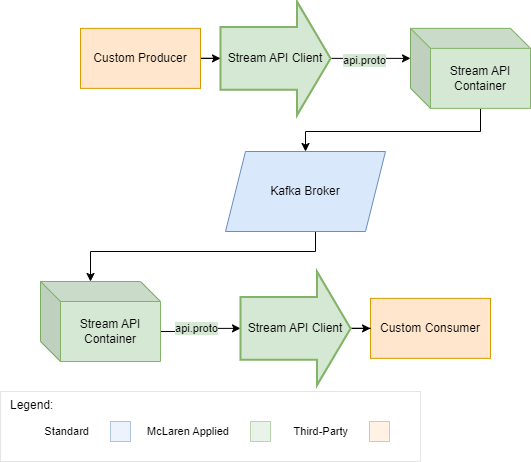
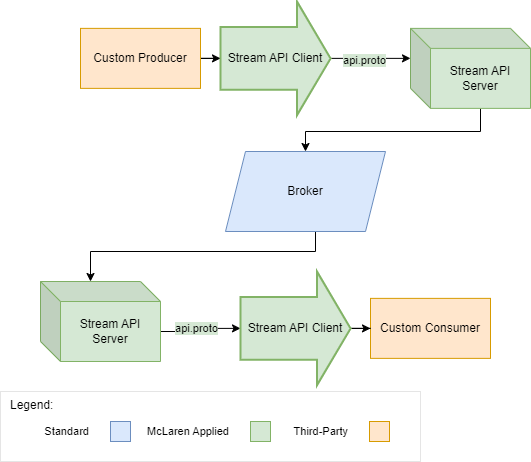
Rename Stream Api Container to Stream Api Server

diff --git a/docs/open_streaming_architecture/stream_api/overview.md b/docs/open_streaming_architecture/stream_api/overview.md
@@ -15,7 +15,7 @@ Four components are currently available for evaluation:
 
 ## Batching Responses
 
-When a high amount of messages is processed at the same time. The overhead can be significant and the bandwidth can be 
+When a high amount of messages is processed at the same time, the overhead can be significant and the bandwidth can be 
 more efficiently utilised by batching the responses. 
 
 The configuration on the server side corresponds to the behaviour when consuming off the broker, whereas 
@@ -24,14 +24,14 @@ the configuration on the client side corresponds to the behaviour when producing
 ## Sample Implementation
 
 ### Simple stream produce consumer
-In this scenario, a custom data producer can publish data onto the Kafka broker via the
-Stream API client and the Stream API Container. 
+In this scenario, a custom data producer can publish data onto the broker via the
+Stream API Client and the Stream API Server. 
 
-The Stream API Client is an in-process API, so in the implementation, the producer and the
-Stream API Client can be in the same executable. The Stream API Client will establish a 
-gRPC channel with the Container to transfer the data to be published to the broker. 
+The Stream API Client is an in-process API, so in this implementation, the producer and the
+Stream API Client can be in the same application. The Stream API Client will establish a 
+gRPC channel with the Server to transfer the data to be published to the broker. 
 
-The same combination of Stream API Container and Stream API Client can be used to 
+The same combination of Stream API Server and Stream API Client can be used to 
 retrieve the same data from the broker.
 
 ![Architecture of simple stream producer consumer](../assets/stream_architecture_light.png#only-light)
